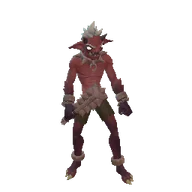
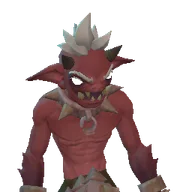
Imp portrait framed on its top 42% (head and shoulders, like the other looks)
Claude-Session: https://claude.ai/code/session_01PfNGaHafsFeFAcWZgUEzoB

diff --git a/packages/client/src/frontend/portraits.ts b/packages/client/src/frontend/portraits.ts
@@ -56,6 +56,9 @@ const PORTRAIT_VIEWS: Record<string, PortraitView> = {
   'core.saintnick': { aim: [0, -0.12, 0], zoom: 1.1 },
 };
 
+/** Creatures framed on the top share of their body instead of whole (owner, 2026-11-03: "zoom in on the imp thumbnail"). */
+const CREATURE_TOPS: Partial<Record<string, number>> = { imp: 0.42 };
+
 /**
  * Character portraits rendered from our own 3D characters (never painted
  * art): each look is built in a private scene, framed head and shoulders,
@@ -158,7 +161,7 @@ export class PortraitRenderer {
         anim.update(0.1, { speed: 0, moveAngle: 0, airborne: false, alive: true, pitch: 0, celebrate: false });
         this.scene.render();
       }
-      this.frameBody(ch.meshes);
+      this.frameBody(ch.meshes, CREATURE_TOPS[kind]);
       return await this.snap(ch.meshes);
     } finally {
       anim.dispose();
@@ -208,10 +211,12 @@ export class PortraitRenderer {
   }
 
   /** A creature (or anything without a head joint), whole, seen three-quarter from the front: they come in every shape. */
-  private frameBody(meshes: AbstractMesh[]): void {
+  private frameBody(meshes: AbstractMesh[], top?: number): void {
     const { min, max } = bounds(meshes);
-    const size = Math.min(6, Math.max(0.4, max.y - min.y, (max.x - min.x) * 0.8, (max.z - min.z) * 0.8));
-    const at = new Vector3((min.x + max.x) / 2, min.y + (max.y - min.y) * 0.55, (min.z + max.z) / 2);
+    // `top`: only the top share of the body, head and shoulders (a tall, thin creature whole is a speck in the tile).
+    const h = (max.y - min.y) * (top ?? 1);
+    const size = Math.min(6, Math.max(0.3, h, top ? 0 : (max.x - min.x) * 0.8, top ? 0 : (max.z - min.z) * 0.8));
+    const at = new Vector3((min.x + max.x) / 2, top ? max.y - h * 0.5 : min.y + (max.y - min.y) * 0.55, (min.z + max.z) / 2);
     const dist = (size * 1.15) / (2 * Math.tan(this.camera.fov / 2));
     const from = new Vector3(0.45, 0.25, 1).normalize();
     this.camera.position.copyFrom(at.add(from.scale(dist)));

diff --git a/packages/client/src/frontend/portraitIndex.ts b/packages/client/src/frontend/portraitIndex.ts
@@ -127,7 +127,7 @@ export const SHIPPED_PORTRAITS: Readonly<Record<string, string>> = {
   'npc:cyclops': 'npc_cyclops.webp?v=9f08b46cf1',
   'npc:gunner': 'npc_gunner.webp?v=3cb85477b8',
   'npc:heavy': 'npc_heavy.webp?v=595276189d',
-  'npc:imp': 'npc_imp.webp?v=a814ee2349',
+  'npc:imp': 'npc_imp.webp?v=04963e85b1',
   'npc:oculus': 'npc_oculus.webp?v=c9218ad748',
   'npc:puglin': 'npc_puglin.webp?v=bb1a95b89e',
   'npc:scolitex': 'npc_scolitex.webp?v=fdfe3e1031',
